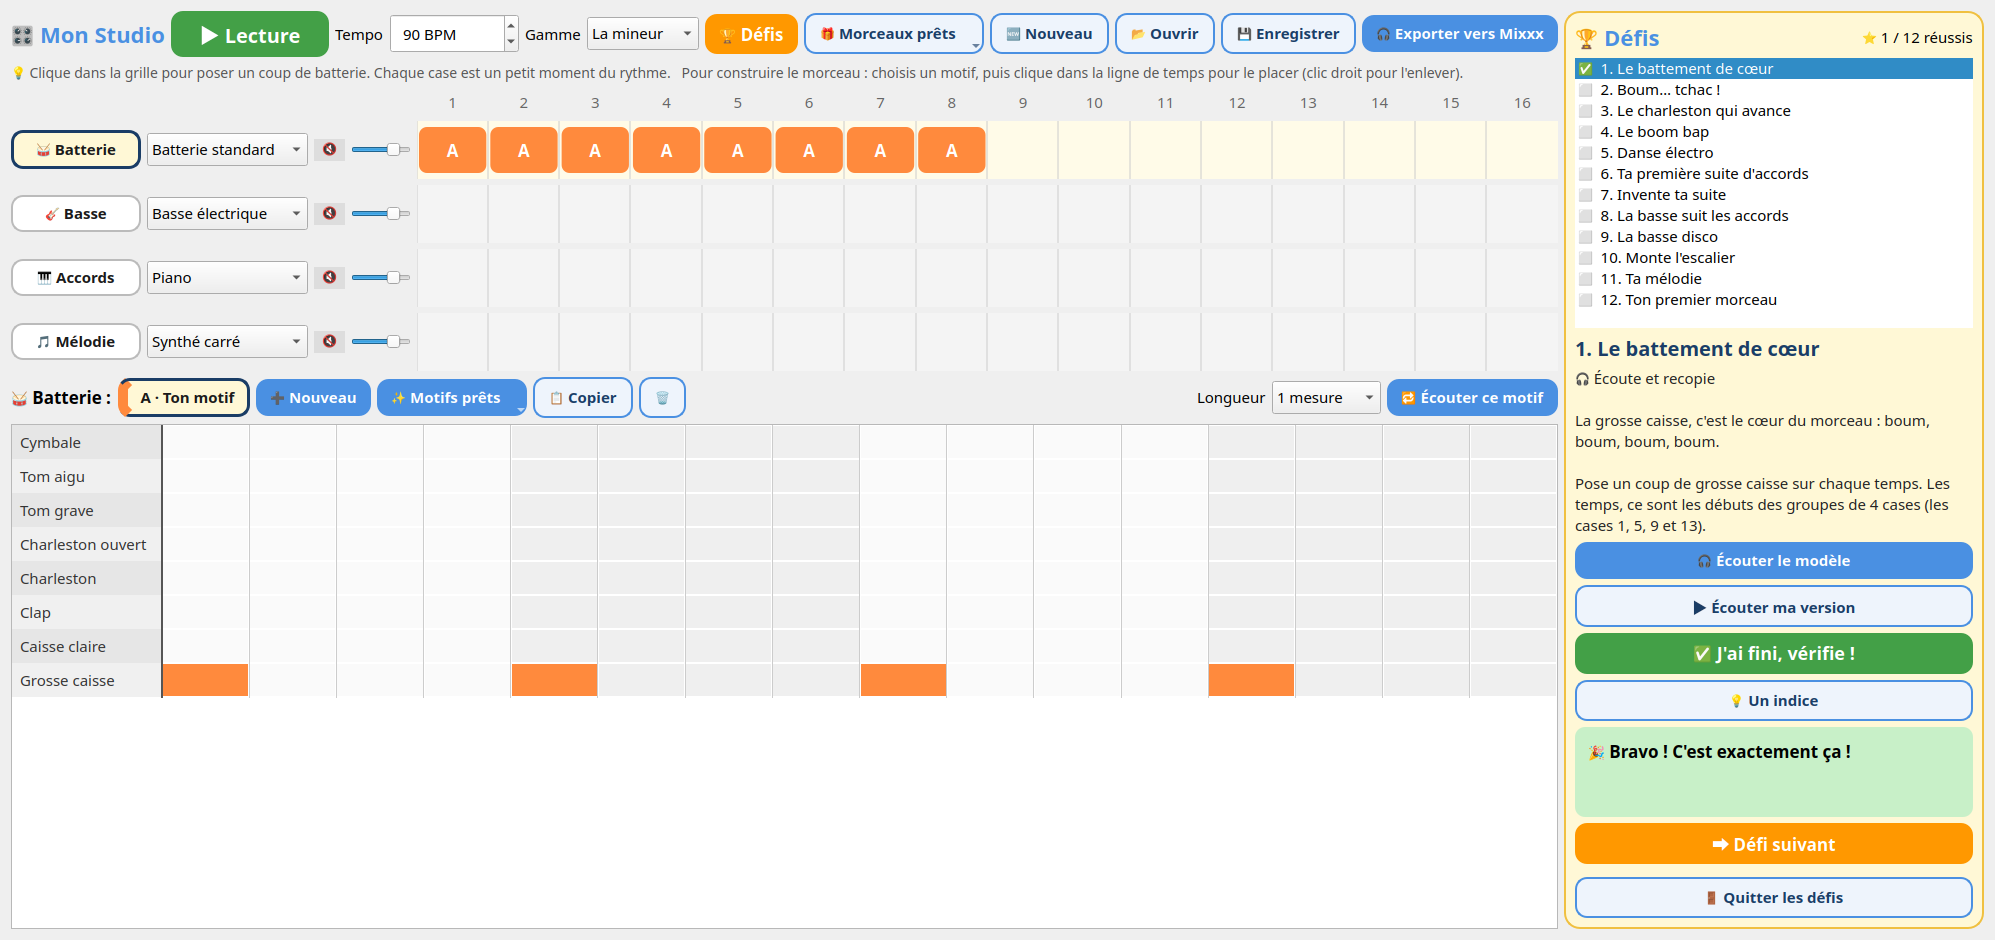
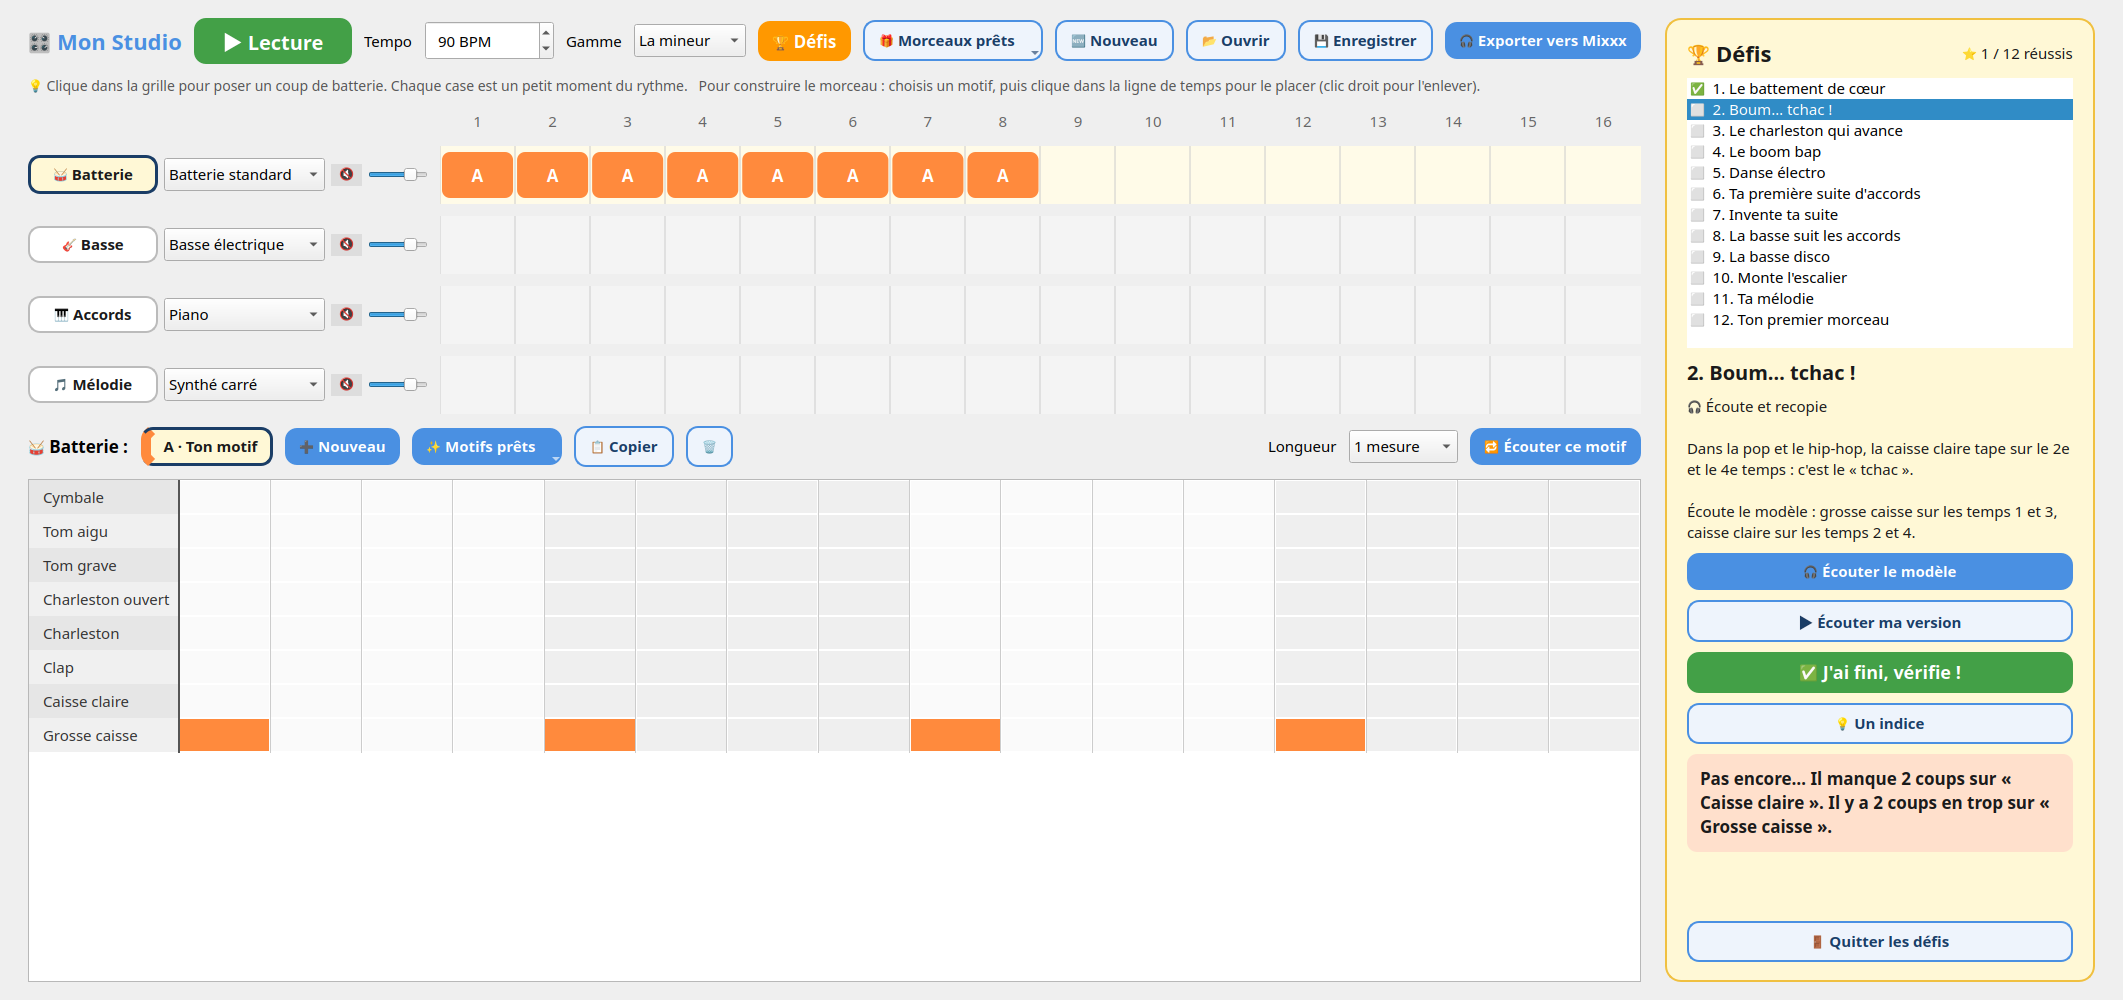
Plus de marges autour de la fenêtre et dans le panneau des défis

diff --git a/mon_studio.py b/mon_studio.py
@@ -223,7 +223,7 @@ class GridEditor(QWidget):
             y = r * rh
             painter.fillRect(QRectF(0, y, self.LABEL_W, rh), QColor("#f0f0f0" if r % 2 else "#e6e6e6"))
             painter.setPen(QColor("#333"))
-            painter.drawText(QRectF(8, y, self.LABEL_W - 10, rh), Qt.AlignmentFlag.AlignVCenter, labels[r])
+            painter.drawText(QRectF(14, y, self.LABEL_W - 16, rh), Qt.AlignmentFlag.AlignVCenter, labels[r])
         if lane == "accords":
             lit = {(6 - d, beat) for beat, d in enumerate(pattern["chords"]) if d is not None}
         else:
@@ -256,8 +256,10 @@ class DefiPanel(QFrame):
         self.studio = studio
         self.index = None
         self.setObjectName("defis")
-        self.setFixedWidth(420)
+        self.setFixedWidth(430)
         layout = QVBoxLayout(self)
+        layout.setContentsMargins(20, 18, 20, 18)
+        layout.setSpacing(10)
         header = QHBoxLayout()
         title = QLabel("🏆 Défis")
         title.setObjectName("title")
@@ -362,7 +364,10 @@ class Studio(QWidget):
         self.before_defis = None   # morceau mis de côté pendant les défis
 
         outer = QHBoxLayout(self)
+        outer.setContentsMargins(28, 18, 28, 18)  # de l'air autour de la fenêtre
+        outer.setSpacing(24)
         root = QVBoxLayout()
+        root.setSpacing(12)
         outer.addLayout(root, 1)
         root.addLayout(self.build_top_bar())
         self.help = QLabel()
